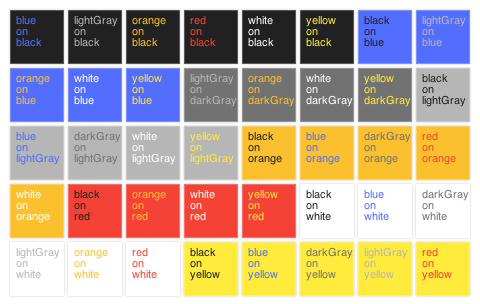
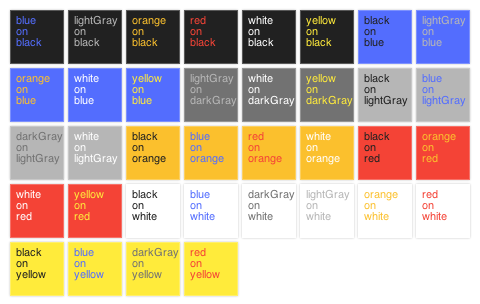
Adding getRandomColorPair and related

diff --git a/build/colorizer.min.js b/build/colorizer.min.js
@@ -1,1 +1,1 @@
-require=function r(e,a,o){function n(l,d){if(!a[l]){if(!e[l]){var c="function"==typeof require&&require;if(!d&&c)return c(l,!0);if(t)return t(l,!0);var i=new Error("Cannot find module '"+l+"'");throw i.code="MODULE_NOT_FOUND",i}var g=a[l]={exports:{}};e[l][0].call(g.exports,function(r){var a=e[l][1][r];return n(a?a:r)},g,g.exports,r,e,a,o)}return a[l].exports}for(var t="function"==typeof require&&require,l=0;l<o.length;l++)n(o[l]);return n}({"/Users/larsonj/Sites/radReveal/rad-colorizer/src/colorizer.js":[function(r){function e(r){Object.keys(r.foregrounds).sort().forEach(function(e){Object.keys(r.backgrounds).sort().forEach(function(a){e!=a&&(r.dontPair[e]&&r.dontPair[e][a]||r.dontPair[a]&&r.dontPair[a][e]||(r.pairs.push({background:{name:a,color:r.backgrounds[a]},foreground:{name:e,color:r.foregrounds[e]}}),r.pairForBackground[a]||(r.pairForBackground[a]=[]),r.pairForBackground[a].push(r.pairs.length-1),r.pairForForeground[e]||(r.pairForForeground[e]=[]),r.pairForForeground[e].push(r.pairs.length-1)))})})}function a(r){(!r.colors||Object.keys(r.colors).length<3)&&(console.log("Palettes must contain at least three colors; "+r.name+" doesn't; defaulting to standard colors"),r.colors=s.standard.colors),r.pairs=r.pairs||[],r.foregrounds=r.foregrounds||r.colors,r.backgrounds=r.backgrounds||r.colors,r.dontPair=r.dontPair||{},r.pairForBackground={},r.pairForForeground={},r.toHtml=function(){return p(this)},s[r.name]=r,e(r),r.pairs<3&&(console.log("Palettes must have at least three available pairs; "+r.name+" doesn't; ignoring dontPair."),r.dontPair={},e(r));var a=[];Object.keys(r.foregrounds).forEach(function(e){var o=".reveal ."+i(r,"fore",e);a.push(o+","+o+" * {color:"+r.foregrounds[e]+";}\n"),o=".reveal."+i(r,"fore",e)+" .controls div.navigate-left",a.push(o+","+o+".enabled {border-right-color:"+r.foregrounds[e]+";}\n"),o=".reveal."+i(r,"fore",e)+" .controls div.navigate-right",a.push(o+","+o+".enabled {border-left-color:"+r.foregrounds[e]+";}\n"),o=".reveal."+i(r,"fore",e)+" .controls div.navigate-up",a.push(o+","+o+".enabled {border-bottom-color:"+r.foregrounds[e]+";}\n"),o=".reveal."+i(r,"fore",e)+" .controls div.navigate-down",a.push(o+","+o+".enabled {border-top-color:"+r.foregrounds[e]+";}\n"),o=".reveal."+i(r,"fore",e)+" .progress span",a.push(o+" {background:"+r.foregrounds[e]+";}\n")}),Object.keys(r.backgrounds).forEach(function(e){var o=".reveal .backgrounds ."+i(r,"back",e);a.push(o+" {background-color:"+r.backgrounds[e]+";}\n")}),f.innerHTML+=a.join("")}function o(r,e){if(g=r||{},document.head.innerHTML+='<style id="rad-colorizer-css"></style>',f=document.querySelector("#rad-colorizer-css"),"object"==typeof g.palettes&&Object.keys(g.palettes).forEach(function(r){s[r]=g.palettes[r]}),"object"==typeof g.palette){var o=g.palette.name||"custom";s[o]=g.palette,b=g.palette}Object.keys(s).forEach(function(r){s[r].name=r,a(s[r])}),"string"==typeof g.palette&&(s[g.palette]?b=s[g.palette]:console.log("There is no "+g.palette+" palette; using standard.")),g.fillSlides&&e.forEach(function(r){r.element.hasAttribute("data-rad-colorizer")||r.element.setAttribute("data-rad-colorizer",g.fillSlides)})}function n(r,e,a){var o,n=k;r.data.randomizer&&(r.data.colorizer.randomizer||(r.data.colorizer.randomizer=r.data.getRandomizerFor("colorizer")),n=r.data.colorizer.randomizer);var t=r.data.colorizer.palette;return o=e&&!a?t.pairForForeground[e][n.random(0,t.pairForBackground[e].length)]:a&&!e?t.pairForBackground[a][n.random(0,t.pairForBackground[a].length)]:n.random(0,t.pairs.length)}function t(r,e,a){var o=n(r,e,a);if(!r.prevSlideObj||!r.prevSlideObj.data.colorizer||g.allowBackgroundRepeat)return o;if(r.prevSlideObj.data.randomizer&&r.data.randomizer&&r.prevSlideObj.data.randomizer.seed==r.data.randomizer.seed)return o;for(previousBackgroundColor=r.prevSlideObj.data.colorizer.background.name;r.data.colorizer.palette.pairs[o].background.name==previousBackgroundColor;)o=n(r,e,a);return o}function l(r,e){e.data.colorizer&&e.data.colorizer.foreground&&e.data.colorizer.palette&&(y.className+=" "+i(e.data.colorizer.palette,"fore",e.data.colorizer.foreground.name))}function d(r,e){e.data.colorizer&&e.data.colorizer.foreground&&e.data.colorizer.palette&&(y.className=y.className.replace(i(e.data.colorizer.palette,"fore",e.data.colorizer.foreground.name),""))}function c(r,e){e.data.colorizer=e.data.colorizer||{};var a=e.element.getAttribute("data-rad-colorizer-palette");a&&(s[a]?b=s[a]:console.log("There is no "+a+" palette")),e.data.colorizer.palette=b;var o=t(e,null,null);e.data.colorizer.background=b.pairs[o].background,e.data.colorizer.foreground=b.pairs[o].foreground;var n=e.element.getAttribute("data-rad-colorizer-background"),l=e.element.getAttribute("data-rad-colorizer-foreground");n&&!b.backgrounds[n]&&(console.log("There is no "+n+" background in the "+b.name+" palette"),n=null),n&&(e.data.colorizer.background={name:n,color:b.backgrounds[n]},l||(e.data.colorizer.foreground=t(e,null,n))),l&&!b.foregrounds[l]&&(console.log("There is no "+l+" foreground in the "+b.name+" palette"),l=null),l&&(e.data.colorizer.foreground={name:l,color:b.foregrounds[l]}),e.element.className+=" "+i(b,"fore",e.data.colorizer.foreground.name)+" "+i(b,"back",e.data.colorizer.background.name)}function i(r,e,a){return"rad-colorizer-"+r.name+"-"+e+"-"+a}var g,u=r("rad-reveal"),s=r("./palettes"),p=r("./generatePaletteHtml"),f=null,b=s.standard,y=document.querySelector(".reveal"),k={random:function(r,e){return Math.floor((e-r)*Math.random()+r)}};u.register("colorizer",o),u.on("data-rad-colorizer","load",c),u.on("data-rad-colorizer","show",l),u.on("data-rad-colorizer","hide",d)},{"./generatePaletteHtml":1,"./palettes":2,"rad-reveal":"rad-reveal"}],1:[function(r,e){function a(r){var e=[];return Object.keys(r.colors).sort().forEach(function(a){Object.keys(r.colors).sort().forEach(function(o){o==a||"undefined"!=typeof r.dontPair[o]&&r.dontPair[o][a]||"undefined"!=typeof r.dontPair[a]&&r.dontPair[a][o]||e.push('<span class="colorizer-palette-pair" style="color: '+r.colors[o]+"; background-color: "+r.colors[a]+'">'+o+"<br>on</br>"+a+"</span>")})}),e.join("")}e.exports=a},{}],2:[function(r,e){var a={standard:{colors:{black:"black",white:"white",gray:"gray",brown:"brown",red:"red",orange:"orange",yellow:"yellow",green:"green",blue:"blue",purple:"purple"},dontPair:{black:{white:1,blue:1,purple:1},white:{black:1,yellow:1},gray:{brown:1,red:1,orange:1,green:1,purple:1},brown:{gray:1,red:1,green:1,blue:1,purple:1},red:{gray:1,brown:1,orange:1,green:1,blue:1,purple:1},orange:{gray:1,red:1},yellow:{white:1},green:{gray:1,brown:1,red:1,blue:1,purple:1},blue:{black:1,brown:1,red:1,green:1,purple:1},purple:{black:1,gray:1,brown:1,red:1,green:1,blue:1}}},crayons:{colors:{red:"#ee204d",orange:"#ff7538",yellow:"#fce883",green:"#1cac78",blue:"#1f75fe",purple:"#926eae",black:"#000000",white:"#ffffff",gray:"#95918c",brown:"#b4674d",cyan:"#64aff6",magenta:"#f664af",pink:"#ffaacc"},dontPair:{red:{orange:1,green:1,blue:1,purple:1,gray:1,brown:1,cyan:1,magenta:1,pink:1},orange:{red:1,green:1,blue:1,purple:1,gray:1,brown:1,cyan:1,magenta:1,pink:1},yellow:{white:1},green:{red:1,orange:1,blue:1,purple:1,gray:1,brown:1,cyan:1,magenta:1},blue:{red:1,orange:1,green:1,purple:1,gray:1,brown:1,magenta:1},purple:{red:1,orange:1,green:1,blue:1,gray:1,brown:1,cyan:1,magenta:1},white:{yellow:1},gray:{red:1,orange:1,green:1,blue:1,purple:1,brown:1,cyan:1,magenta:1},brown:{red:1,orange:1,green:1,blue:1,purple:1,gray:1,cyan:1,magenta:1},cyan:{red:1,orange:1,green:1,purple:1,gray:1,brown:1,magenta:1,pink:1},magenta:{red:1,orange:1,green:1,blue:1,purple:1,gray:1,brown:1,cyan:1,pink:1},pink:{red:1,orange:1,cyan:1,magenta:1}}},grayscale:{colors:{black:"#000",dark:"#444",gray:"#888",light:"#ccc",white:"#fff"},dontPair:{black:{dark:1},dark:{black:1,gray:1},gray:{dark:1,light:1},light:{gray:1,white:1},white:{light:1}}},wood:{colors:{darkBrown:"#5d4037",brown:"#795548",darkOrange:"#f57c00",orange:"#ffc107",lightOrange:"#ffe0b2",lightGray:"#d7ccc8",gray:"#727272",darkGray:"#212121"},dontPair:{darkBrown:{brown:1,gray:1,darkGray:1},brown:{darkBrown:1,gray:1,darkGray:1},darkOrange:{orange:1,gray:1},orange:{darkOrange:1,lightOrange:1,lightGray:1},lightOrange:{orange:1,lightGray:1},lightGray:{orange:1,lightOrange:1},gray:{darkBrown:1,brown:1,darkOrange:1},darkGray:{darkBrown:1,brown:1}}},sea:{colors:{navy:"#303f9f",deepSky:"#03a9f4",lagoon:"#00bcd4",lightSky:"#b3e5fc",seaGreen:"#009688",deepGray:"#212121",gray:"#727272"},dontPair:{navy:{deepGray:1,gray:1},deepSky:{lagoon:1,seaGreen:1},lagoon:{deepSky:1,seaGreen:1,gray:1},seaGreen:{deepSky:1,lagoon:1,gray:1},deepGray:{navy:1},gray:{navy:1,lagoon:1,seaGreen:1}}},circus:{colors:{black:"#212121",blue:"#536dfe",darkGray:"#727272",lightGray:"#b6b6b6",red:"#f44336",orange:"#fbc02d",yellow:"#ffeb3b",white:"#ffffff"},dontPair:{black:{darkGray:1},blue:{darkGray:1,red:1},darkGray:{black:1,blue:1,red:1},lightGray:{red:1,orange:1},red:{blue:1,darkGray:1,lightGray:1},orange:{lightGray:1,yellow:1},yellow:{orange:1,white:1},white:{yellow:1}}}};e.exports=a},{}]},{},["/Users/larsonj/Sites/radReveal/rad-colorizer/src/colorizer.js"]);
+require=function r(e,a,o){function n(l,d){if(!a[l]){if(!e[l]){var c="function"==typeof require&&require;if(!d&&c)return c(l,!0);if(t)return t(l,!0);var i=new Error("Cannot find module '"+l+"'");throw i.code="MODULE_NOT_FOUND",i}var g=a[l]={exports:{}};e[l][0].call(g.exports,function(r){var a=e[l][1][r];return n(a?a:r)},g,g.exports,r,e,a,o)}return a[l].exports}for(var t="function"==typeof require&&require,l=0;l<o.length;l++)n(o[l]);return n}({"/Users/larsonj/Sites/radReveal/rad-colorizer/src/colorizer.js":[function(r){function e(r,e){if(g=r||{},document.head.innerHTML+='<style id="rad-colorizer-css"></style>',f=document.querySelector("#rad-colorizer-css"),"object"==typeof g.palettes&&Object.keys(g.palettes).forEach(function(r){s[r]=g.palettes[r]}),"object"==typeof g.palette){var a=g.palette.name||"custom";s[a]=g.palette,b=g.palette}Object.keys(s).forEach(function(r){s[r].name=r,o(s[r])}),"string"==typeof g.palette&&(s[g.palette]?b=s[g.palette]:console.log("There is no "+g.palette+" palette; using standard.")),g.fillSlides&&e.forEach(function(r){r.element.hasAttribute("data-rad-colorizer")||r.element.setAttribute("data-rad-colorizer",g.fillSlides)})}function a(r){Object.keys(r.foregrounds).sort().forEach(function(e){Object.keys(r.backgrounds).sort().forEach(function(a){e!=a&&(r.dontPair[e]&&r.dontPair[e][a]||r.dontPair[a]&&r.dontPair[a][e]||(r.pairs.push({background:{name:a,color:r.backgrounds[a]},foreground:{name:e,color:r.foregrounds[e]}}),r.pairForBackground[a]||(r.pairForBackground[a]=[]),r.pairForBackground[a].push(r.pairs.length-1),r.pairForForeground[e]||(r.pairForForeground[e]=[]),r.pairForForeground[e].push(r.pairs.length-1)))})})}function o(r){(!r.colors||Object.keys(r.colors).length<3)&&(console.log("Palettes must contain at least three colors; "+r.name+" doesn't; defaulting to standard colors"),r.colors=s.standard.colors),r.pairs=r.pairs||[],r.foregrounds=r.foregrounds||r.colors,r.backgrounds=r.backgrounds||r.colors,r.dontPair=r.dontPair||{},r.pairForBackground={},r.pairForForeground={},r.toHtml=function(){return p(this)},s[r.name]=r,a(r),r.pairs<3&&(console.log("Palettes must have at least three available pairs; "+r.name+" doesn't; ignoring dontPair."),r.dontPair={},a(r));var e=[];Object.keys(r.foregrounds).forEach(function(a){var o=".reveal ."+i(r,"fore",a);e.push(o+","+o+" * {color:"+r.foregrounds[a]+";}\n"),o=".reveal."+i(r,"fore",a)+" .controls div.navigate-left",e.push(o+","+o+".enabled {border-right-color:"+r.foregrounds[a]+";}\n"),o=".reveal."+i(r,"fore",a)+" .controls div.navigate-right",e.push(o+","+o+".enabled {border-left-color:"+r.foregrounds[a]+";}\n"),o=".reveal."+i(r,"fore",a)+" .controls div.navigate-up",e.push(o+","+o+".enabled {border-bottom-color:"+r.foregrounds[a]+";}\n"),o=".reveal."+i(r,"fore",a)+" .controls div.navigate-down",e.push(o+","+o+".enabled {border-top-color:"+r.foregrounds[a]+";}\n"),o=".reveal."+i(r,"fore",a)+" .progress span",e.push(o+" {background:"+r.foregrounds[a]+";}\n")}),Object.keys(r.backgrounds).forEach(function(a){var o=".reveal .backgrounds ."+i(r,"back",a);e.push(o+" {background-color:"+r.backgrounds[a]+";}\n")}),f.innerHTML+=e.join("")}function n(r,e,a){var o,n=k;r.data.randomizer&&(r.data.colorizer.randomizer||(r.data.colorizer.randomizer=r.data.getRandomizerFor("colorizer")),n=r.data.colorizer.randomizer);var t=r.data.colorizer.palette;return o=e&&!a?t.pairForForeground[e][n.random(0,t.pairForBackground[e].length)]:a&&!e?t.pairForBackground[a][n.random(0,t.pairForBackground[a].length)]:n.random(0,t.pairs.length)}function t(r,e,a){var o=n(r,e,a);if(!r.prevSlideObj||!r.prevSlideObj.data.colorizer||g.allowBackgroundRepeat)return o;if(r.prevSlideObj.data.randomizer&&r.data.randomizer&&r.prevSlideObj.data.randomizer.seed==r.data.randomizer.seed)return o;for(previousBackgroundColor=r.prevSlideObj.data.colorizer.background.name;r.data.colorizer.palette.pairs[o].background.name==previousBackgroundColor;)o=n(r,e,a);return o}function l(r,e){e.data.colorizer&&e.data.colorizer.foreground&&e.data.colorizer.palette&&(y.className+=" "+i(e.data.colorizer.palette,"fore",e.data.colorizer.foreground.name))}function d(r,e){e.data.colorizer&&e.data.colorizer.foreground&&e.data.colorizer.palette&&(y.className=y.className.replace(i(e.data.colorizer.palette,"fore",e.data.colorizer.foreground.name),""))}function c(r,e){e.data.colorizer=e.data.colorizer||{};var a=e.element.getAttribute("data-rad-colorizer-palette");a&&(s[a]?b=s[a]:console.log("There is no "+a+" palette")),e.data.colorizer.palette=b;var o=t(e,null,null);e.data.colorizer.background=b.pairs[o].background,e.data.colorizer.foreground=b.pairs[o].foreground;var n=e.element.getAttribute("data-rad-colorizer-background"),l=e.element.getAttribute("data-rad-colorizer-foreground");n&&!b.backgrounds[n]&&(console.log("There is no "+n+" background in the "+b.name+" palette"),n=null),n&&(e.data.colorizer.background={name:n,color:b.backgrounds[n]},l||(e.data.colorizer.foreground=t(e,null,n))),l&&!b.foregrounds[l]&&(console.log("There is no "+l+" foreground in the "+b.name+" palette"),l=null),l&&(e.data.colorizer.foreground={name:l,color:b.foregrounds[l]}),e.element.className+=" "+i(b,"fore",e.data.colorizer.foreground.name)+" "+i(b,"back",e.data.colorizer.background.name)}function i(r,e,a){return"rad-colorizer-"+r.name+"-"+e+"-"+a}var g,u=r("rad-reveal"),s=r("./palettes"),p=r("./generatePaletteHtml"),f=null,b=s.standard,y=document.querySelector(".reveal"),k={random:function(r,e){return Math.floor((e-r)*Math.random()+r)}};u.register("colorizer",e),u.on("data-rad-colorizer","load",c),u.on("data-rad-colorizer","show",l),u.on("data-rad-colorizer","hide",d)},{"./generatePaletteHtml":1,"./palettes":2,"rad-reveal":"rad-reveal"}],1:[function(r,e){function a(r){var e=[];return Object.keys(r.colors).sort().forEach(function(a){Object.keys(r.colors).sort().forEach(function(o){o==a||"undefined"!=typeof r.dontPair[o]&&r.dontPair[o][a]||"undefined"!=typeof r.dontPair[a]&&r.dontPair[a][o]||e.push('<span class="colorizer-palette-pair" style="color: '+r.colors[o]+"; background-color: "+r.colors[a]+'">'+o+"<br>on</br>"+a+"</span>")})}),e.join("")}e.exports=a},{}],2:[function(r,e){var a={standard:{colors:{black:"black",white:"white",gray:"gray",brown:"brown",red:"red",orange:"orange",yellow:"yellow",green:"green",blue:"blue",purple:"purple"},dontPair:{black:{white:1,blue:1,purple:1},white:{black:1,yellow:1},gray:{brown:1,red:1,orange:1,green:1,purple:1},brown:{gray:1,red:1,green:1,blue:1,purple:1},red:{gray:1,brown:1,orange:1,green:1,blue:1,purple:1},orange:{gray:1,red:1},yellow:{white:1},green:{gray:1,brown:1,red:1,blue:1,purple:1},blue:{black:1,brown:1,red:1,green:1,purple:1},purple:{black:1,gray:1,brown:1,red:1,green:1,blue:1}}},crayons:{colors:{red:"#ee204d",orange:"#ff7538",yellow:"#fce883",green:"#1cac78",blue:"#1f75fe",purple:"#926eae",black:"#000000",white:"#ffffff",gray:"#95918c",brown:"#b4674d",cyan:"#64aff6",magenta:"#f664af",pink:"#ffaacc"},dontPair:{red:{orange:1,green:1,blue:1,purple:1,gray:1,brown:1,cyan:1,magenta:1,pink:1},orange:{red:1,green:1,blue:1,purple:1,gray:1,brown:1,cyan:1,magenta:1,pink:1},yellow:{white:1},green:{red:1,orange:1,blue:1,purple:1,gray:1,brown:1,cyan:1,magenta:1},blue:{red:1,orange:1,green:1,purple:1,gray:1,brown:1,magenta:1},purple:{red:1,orange:1,green:1,blue:1,gray:1,brown:1,cyan:1,magenta:1},white:{yellow:1},gray:{red:1,orange:1,green:1,blue:1,purple:1,brown:1,cyan:1,magenta:1},brown:{red:1,orange:1,green:1,blue:1,purple:1,gray:1,cyan:1,magenta:1},cyan:{red:1,orange:1,green:1,purple:1,gray:1,brown:1,magenta:1,pink:1},magenta:{red:1,orange:1,green:1,blue:1,purple:1,gray:1,brown:1,cyan:1,pink:1},pink:{red:1,orange:1,cyan:1,magenta:1}}},grayscale:{colors:{black:"#000",dark:"#444",gray:"#888",light:"#ccc",white:"#fff"},dontPair:{black:{dark:1},dark:{black:1,gray:1},gray:{dark:1,light:1},light:{gray:1,white:1},white:{light:1}}},wood:{colors:{darkBrown:"#5d4037",brown:"#795548",darkOrange:"#f57c00",orange:"#ffc107",lightOrange:"#ffe0b2",lightGray:"#d7ccc8",gray:"#727272",darkGray:"#212121"},dontPair:{darkBrown:{brown:1,gray:1,darkGray:1},brown:{darkBrown:1,gray:1,darkGray:1},darkOrange:{orange:1,gray:1},orange:{darkOrange:1,lightOrange:1,lightGray:1},lightOrange:{orange:1,lightGray:1},lightGray:{orange:1,lightOrange:1},gray:{darkBrown:1,brown:1,darkOrange:1},darkGray:{darkBrown:1,brown:1}}},sea:{colors:{navy:"#303f9f",deepSky:"#03a9f4",lagoon:"#00bcd4",lightSky:"#b3e5fc",seaGreen:"#009688",deepGray:"#212121",gray:"#727272"},dontPair:{navy:{deepGray:1,gray:1},deepSky:{lagoon:1,seaGreen:1},lagoon:{deepSky:1,seaGreen:1,gray:1},seaGreen:{deepSky:1,lagoon:1,gray:1},deepGray:{navy:1},gray:{navy:1,lagoon:1,seaGreen:1}}},circus:{colors:{black:"#212121",blue:"#536dfe",darkGray:"#727272",lightGray:"#b6b6b6",red:"#f44336",orange:"#fbc02d",yellow:"#ffeb3b",white:"#ffffff"},dontPair:{black:{darkGray:1},blue:{darkGray:1,red:1},darkGray:{black:1,blue:1,red:1,orange:1},lightGray:{red:1,orange:1,yellow:1},red:{blue:1,darkGray:1,lightGray:1},orange:{lightGray:1,yellow:1,darkGray:1},yellow:{orange:1,white:1,lightGray:1},white:{yellow:1}}}};e.exports=a},{}]},{},["/Users/larsonj/Sites/radReveal/rad-colorizer/src/colorizer.js"]);

diff --git a/build/colorizer.js b/build/colorizer.js
@@ -1,11 +1,36 @@
 require=(function e(t,n,r){function s(o,u){if(!n[o]){if(!t[o]){var a=typeof require=="function"&&require;if(!u&&a)return a(o,!0);if(i)return i(o,!0);var f=new Error("Cannot find module '"+o+"'");throw f.code="MODULE_NOT_FOUND",f}var l=n[o]={exports:{}};t[o][0].call(l.exports,function(e){var n=t[o][1][e];return s(n?n:e)},l,l.exports,e,t,n,r)}return n[o].exports}var i=typeof require=="function"&&require;for(var o=0;o<r.length;o++)s(r[o]);return s})({"/Users/larsonj/Sites/radReveal/rad-colorizer/src/colorizer.js":[function(require,module,exports){
+/*!
+ * rad-colorizer
+ * http://joelarson4.github.io/rad-colorizer
+ * MIT licensed
+ *
+ * Copyright (C) 2015 Joe Larson
+ */
+
+/** 
+ * @overview
+ * rad-colorizer is a Reveal.js RadReveal add-on for automatically adding background and foreground colors to your slides.
+ * Please see [project README](https://github.com/joelarson4/rad-colorizer) for an overview.
+ *
+ * This is not a true CommonJS module, you cannot `require()` it.  It should be loaded as a Reveal.js dependency.
+ *
+ *```javascript
+ * Reveal.initialize({
+ *    ...
+ *    dependencies: [
+ *        { src: '<some path>/colorizer.min.js', radName: 'colorizer' }
+ *    ...
+ *```
+ *
+ * @module colorizer
+ */
+
+//Developer note: we are not using jsdox to generate any markdown for this file; the API doesn't really suit it.  
+//  Some JsDoc is still provided for developer use
+
 var RadReveal = require('rad-reveal');
 var palettes = require('./palettes');
 var generatePaletteHtml = require('./generatePaletteHtml');
-
-//note: http://www.materialpalette.com/
-//note:http://jsbin.com/jabinozequ/1/edit?html,css,js,output
-//note:http://jsbin.com/pokiramihu
 
 var previousBodyClassName;
 var colors = [];
@@ -14,6 +39,57 @@ var counter = 0;
 var styleEle = null;
 var currentPalette = palettes.standard;
 var revealElement = document.querySelector('.reveal');
+
+
+/** 
+ * Runs when RadReveal initializes.
+ *
+ * @param {object} config - configuration object set in radConfig.  See README for details.
+ * @param {array} slides - all the slide objects
+ * @private
+ */
+function initialize(inputConfig, slides) {
+    config = inputConfig || {};
+
+    document.head.innerHTML += '<style id="rad-colorizer-css"></style>';
+    styleEle = document.querySelector('#rad-colorizer-css');
+
+    if(typeof config.palettes === 'object') {
+        Object.keys(config.palettes).forEach(function(paletteName) {
+            palettes[paletteName] = config.palettes[paletteName];
+        });
+    }
+
+    if(typeof config.palette === 'object') {
+        var paletteName = config.palette.name || 'custom';
+        palettes[paletteName] = config.palette;
+        currentPalette = config.palette;
+    }
+
+    Object.keys(palettes).forEach(function(paletteName) {
+        palettes[paletteName].name = paletteName;
+        setupPalette(palettes[paletteName]);
+    });
+
+    if(typeof config.palette === 'string') {
+        if(palettes[config.palette]) {
+            currentPalette = palettes[config.palette];
+        } else {
+            console.log('There is no ' + config.palette + ' palette; using standard.');
+        }
+    }
+
+    if(config.fillSlides) {
+        slides.forEach(function(slide) {
+            if(!slide.element.hasAttribute('data-rad-colorizer')) {
+                slide.element.setAttribute('data-rad-colorizer', config.fillSlides);
+            }
+        });
+    }
+}
+
+
+//palette initialization.
 
 function setupPalettePairs(paletteObj) {
     Object.keys(paletteObj.foregrounds).sort().forEach(function(fore) {
@@ -85,52 +161,8 @@ function setupPalette(paletteObj) {
     styleEle.innerHTML += style.join('');
 }
 
-/**
- colors: [xxx, yyy, zzz],
- foregrounds: [xxx, yyy, zzz],
- backgrounds: [xxx, yyy, zzz],
- pairs: [ { foreground: xxx, background: zzz }, { foreground: yyy, background: xxx} ]
- palettes = { name : object }
-*/
-function initialize(inputConfig, slides) {
-    config = inputConfig || {};
 
-    document.head.innerHTML += '<style id="rad-colorizer-css"></style>';
-    styleEle = document.querySelector('#rad-colorizer-css');
-
-    if(typeof config.palettes === 'object') {
-        Object.keys(config.palettes).forEach(function(paletteName) {
-            palettes[paletteName] = config.palettes[paletteName];
-        });
-    }
-
-    if(typeof config.palette === 'object') {
-        var paletteName = config.palette.name || 'custom';
-        palettes[paletteName] = config.palette;
-        currentPalette = config.palette;
-    }
-
-    Object.keys(palettes).forEach(function(paletteName) {
-        palettes[paletteName].name = paletteName;
-        setupPalette(palettes[paletteName]);
-    });
-
-    if(typeof config.palette === 'string') {
-        if(palettes[config.palette]) {
-            currentPalette = palettes[config.palette];
-        } else {
-            console.log('There is no ' + config.palette + ' palette; using standard.');
-        }
-    }
-
-    if(config.fillSlides) {
-        slides.forEach(function(slide) {
-            if(!slide.element.hasAttribute('data-rad-colorizer')) {
-                slide.element.setAttribute('data-rad-colorizer', config.fillSlides);
-            }
-        });
-    }
-}
+//randomization functionality:
 
 var actuallyRandom = {
     random: function(min, max) {
@@ -161,6 +193,15 @@ function getRandomPairIndex(slideObj, useForeground, useBackground) {
     return pairIndex;
 }
 
+
+/**
+ * Return a color pair index for a particular slide by using it's randomization attributes (either truly
+ * random or from rad-randomizer) and from the palette assigned to that slide.
+ *
+ * @param {object} slideObj - the RadReveal slide object
+ * @param {string=} useForeground - name of a color in the slide's palette foregrounds to force it to be used
+ * @param {string=} useBackground - name of a color in the slide's palette backgrounds to force it to be used
+ */
 function getPairIndex(slideObj, useForeground, useBackground) {
     var pairIndex = getRandomPairIndex(slideObj, useForeground, useBackground);
 
@@ -183,6 +224,8 @@ function getPairIndex(slideObj, useForeground, useBackground) {
     return pairIndex;
 }
 
+
+//core events
 
 function show(attrVal, slideObj, event, radEventName) {
     if(!slideObj.data.colorizer || !slideObj.data.colorizer.foreground || !slideObj.data.colorizer.palette) {
@@ -402,11 +445,11 @@ var palettes = {
         dontPair: {
             black:     { darkGray: 1 },
             blue:      { darkGray: 1, red: 1 },
-            darkGray:  { black: 1, blue: 1, red: 1 },
-            lightGray: { red: 1, orange: 1 },
+            darkGray:  { black: 1, blue: 1, red: 1, orange: 1 },
+            lightGray: { red: 1, orange: 1, yellow: 1 },
             red:       { blue: 1, darkGray: 1, lightGray: 1 },
-            orange:    { lightGray: 1, yellow: 1 },
-            yellow:    { orange: 1, white: 1 },
+            orange:    { lightGray: 1, yellow: 1, darkGray: 1 },
+            yellow:    { orange: 1, white: 1, lightGray: 1 },
             white:     { yellow: 1 }
         }
     }

diff --git a/build/getRandomColorPair.min.js b/build/getRandomColorPair.min.js
@@ -1,0 +1,1 @@
+require=function r(e,a,n){function o(l,t){if(!a[l]){if(!e[l]){var y="function"==typeof require&&require;if(!t&&y)return y(l,!0);if(g)return g(l,!0);var d=new Error("Cannot find module '"+l+"'");throw d.code="MODULE_NOT_FOUND",d}var i=a[l]={exports:{}};e[l][0].call(i.exports,function(r){var a=e[l][1][r];return o(a?a:r)},i,i.exports,r,e,a,n)}return a[l].exports}for(var g="function"==typeof require&&require,l=0;l<n.length;l++)o(n[l]);return o}({1:[function(r,e){var a={standard:{colors:{black:"black",white:"white",gray:"gray",brown:"brown",red:"red",orange:"orange",yellow:"yellow",green:"green",blue:"blue",purple:"purple"},dontPair:{black:{white:1,blue:1,purple:1},white:{black:1,yellow:1},gray:{brown:1,red:1,orange:1,green:1,purple:1},brown:{gray:1,red:1,green:1,blue:1,purple:1},red:{gray:1,brown:1,orange:1,green:1,blue:1,purple:1},orange:{gray:1,red:1},yellow:{white:1},green:{gray:1,brown:1,red:1,blue:1,purple:1},blue:{black:1,brown:1,red:1,green:1,purple:1},purple:{black:1,gray:1,brown:1,red:1,green:1,blue:1}}},crayons:{colors:{red:"#ee204d",orange:"#ff7538",yellow:"#fce883",green:"#1cac78",blue:"#1f75fe",purple:"#926eae",black:"#000000",white:"#ffffff",gray:"#95918c",brown:"#b4674d",cyan:"#64aff6",magenta:"#f664af",pink:"#ffaacc"},dontPair:{red:{orange:1,green:1,blue:1,purple:1,gray:1,brown:1,cyan:1,magenta:1,pink:1},orange:{red:1,green:1,blue:1,purple:1,gray:1,brown:1,cyan:1,magenta:1,pink:1},yellow:{white:1},green:{red:1,orange:1,blue:1,purple:1,gray:1,brown:1,cyan:1,magenta:1},blue:{red:1,orange:1,green:1,purple:1,gray:1,brown:1,magenta:1},purple:{red:1,orange:1,green:1,blue:1,gray:1,brown:1,cyan:1,magenta:1},white:{yellow:1},gray:{red:1,orange:1,green:1,blue:1,purple:1,brown:1,cyan:1,magenta:1},brown:{red:1,orange:1,green:1,blue:1,purple:1,gray:1,cyan:1,magenta:1},cyan:{red:1,orange:1,green:1,purple:1,gray:1,brown:1,magenta:1,pink:1},magenta:{red:1,orange:1,green:1,blue:1,purple:1,gray:1,brown:1,cyan:1,pink:1},pink:{red:1,orange:1,cyan:1,magenta:1}}},grayscale:{colors:{black:"#000",dark:"#444",gray:"#888",light:"#ccc",white:"#fff"},dontPair:{black:{dark:1},dark:{black:1,gray:1},gray:{dark:1,light:1},light:{gray:1,white:1},white:{light:1}}},wood:{colors:{darkBrown:"#5d4037",brown:"#795548",darkOrange:"#f57c00",orange:"#ffc107",lightOrange:"#ffe0b2",lightGray:"#d7ccc8",gray:"#727272",darkGray:"#212121"},dontPair:{darkBrown:{brown:1,gray:1,darkGray:1},brown:{darkBrown:1,gray:1,darkGray:1},darkOrange:{orange:1,gray:1},orange:{darkOrange:1,lightOrange:1,lightGray:1},lightOrange:{orange:1,lightGray:1},lightGray:{orange:1,lightOrange:1},gray:{darkBrown:1,brown:1,darkOrange:1},darkGray:{darkBrown:1,brown:1}}},sea:{colors:{navy:"#303f9f",deepSky:"#03a9f4",lagoon:"#00bcd4",lightSky:"#b3e5fc",seaGreen:"#009688",deepGray:"#212121",gray:"#727272"},dontPair:{navy:{deepGray:1,gray:1},deepSky:{lagoon:1,seaGreen:1},lagoon:{deepSky:1,seaGreen:1,gray:1},seaGreen:{deepSky:1,lagoon:1,gray:1},deepGray:{navy:1},gray:{navy:1,lagoon:1,seaGreen:1}}},circus:{colors:{black:"#212121",blue:"#536dfe",darkGray:"#727272",lightGray:"#b6b6b6",red:"#f44336",orange:"#fbc02d",yellow:"#ffeb3b",white:"#ffffff"},dontPair:{black:{darkGray:1},blue:{darkGray:1,red:1},darkGray:{black:1,blue:1,red:1,orange:1},lightGray:{red:1,orange:1,yellow:1},red:{blue:1,darkGray:1,lightGray:1},orange:{lightGray:1,yellow:1,darkGray:1},yellow:{orange:1,white:1,lightGray:1},white:{yellow:1}}}};e.exports=a},{}],"rad-colorizer-getrandomcolorpair":[function(r,e){function a(r){for(var e,a,o=n[r],g=Object.keys(o.colors);!e||!a||e==a||o.dontPair[e][a]||o.dontPair[a][e];)e=g[Math.floor(Math.random()*g.length)],a=g[Math.floor(Math.random()*g.length)],console.log("try "+e+" "+a);return console.log("win "+e+" "+a),{foreground:e,background:a}}var n=r("./palettes");e.exports=a},{"./palettes":1}]},{},["rad-colorizer-getrandomcolorpair"]);

diff --git a/build/getRandomColorPair.js b/build/getRandomColorPair.js
@@ -1,3 +1,4 @@
+require=(function e(t,n,r){function s(o,u){if(!n[o]){if(!t[o]){var a=typeof require=="function"&&require;if(!u&&a)return a(o,!0);if(i)return i(o,!0);var f=new Error("Cannot find module '"+o+"'");throw f.code="MODULE_NOT_FOUND",f}var l=n[o]={exports:{}};t[o][0].call(l.exports,function(e){var n=t[o][1][e];return s(n?n:e)},l,l.exports,e,t,n,r)}return n[o].exports}var i=typeof require=="function"&&require;for(var o=0;o<r.length;o++)s(r[o]);return s})({1:[function(require,module,exports){
 var palettes = {
     standard: {
         colors: { 
@@ -139,3 +140,26 @@ var palettes = {
 };
 
 module.exports = palettes;
+},{}],"rad-colorizer-getrandomcolorpair":[function(require,module,exports){
+var palettes = require('./palettes');
+
+/** 
+ * Simple method for getting a pair of random colors via palette name.  Used by gh-pages index.html.
+ */
+function getRandomColorPair(paletteName) {
+    var paletteObj = palettes[paletteName];
+    var colorNames = Object.keys(paletteObj.colors);
+    var fore;
+    var back;
+    while(!fore || !back || fore == back || 
+      paletteObj.dontPair[fore][back] || paletteObj.dontPair[back][fore]) {
+        fore = colorNames[Math.floor(Math.random() * colorNames.length)];
+        back = colorNames[Math.floor(Math.random() * colorNames.length)];
+        console.log('try ' + fore + ' ' + back);
+    }
+    console.log('win ' + fore + ' ' + back);
+    return { foreground: fore, background: back };
+}
+
+module.exports = getRandomColorPair;
+},{"./palettes":1}]},{},["rad-colorizer-getrandomcolorpair"]);

diff --git a/gulpfile.js b/gulpfile.js
@@ -51,7 +51,7 @@ gulp.task('default', function() {
     gulp.watch('demo.html', ['build']);
 });
 
-gulp.task('release', ['build'], function() {
+gulp.task('release', ['build', 'build-getRandomColorPair'], function() {
     gulp.start('test');
 });
 
@@ -60,6 +60,20 @@ gulp.task('build', ['copy-css', 'gen-palette-doco'], function() {
         .pipe(browserifyIt({ ignoreMissing: true }))
         .pipe(gulp.dest(builddir))
         .pipe(uglify())
+        .pipe(rename({ extname: '.min.js' }))
+        .pipe(gulp.dest(builddir));
+});
+
+gulp.task('build-getRandomColorPair', function() {
+    var filename = 'src/getRandomColorPair.js';
+
+    return gulp.src(filename)
+        .pipe(jshint())
+        .pipe(jshint.reporter('default'))
+        .pipe(browserifyIt({ ignoreMissing: true }))
+        .pipe(browserifyIt(null, { expose: 'rad-colorizer-getrandomcolorpair' }))        
+        .pipe(gulp.dest(builddir))
+        .pipe(uglify({preserveComments: 'some'}))
         .pipe(rename({ extname: '.min.js' }))
         .pipe(gulp.dest(builddir));
 });

diff --git a/src/getRandomColorPair.js b/src/getRandomColorPair.js
@@ -1,0 +1,21 @@
+var palettes = require('./palettes');
+
+/** 
+ * Simple method for getting a pair of random colors via palette name.  Used by gh-pages index.html.
+ */
+function getRandomColorPair(paletteName) {
+    var paletteObj = palettes[paletteName];
+    var colorNames = Object.keys(paletteObj.colors);
+    var fore;
+    var back;
+    while(!fore || !back || fore == back || 
+      paletteObj.dontPair[fore][back] || paletteObj.dontPair[back][fore]) {
+        fore = colorNames[Math.floor(Math.random() * colorNames.length)];
+        back = colorNames[Math.floor(Math.random() * colorNames.length)];
+        console.log('try ' + fore + ' ' + back);
+    }
+    console.log('win ' + fore + ' ' + back);
+    return { foreground: fore, background: back };
+}
+
+module.exports = getRandomColorPair;

diff --git a/build/colorizer.css b/build/colorizer.css
@@ -9,4 +9,5 @@
     margin: 0.25em;
     border: 1px solid rgba(255, 255, 255, 0.25);
     box-shadow: 0 0 2px rgba(0, 0, 0, 0.25);
+    overflow: hidden;
 }
